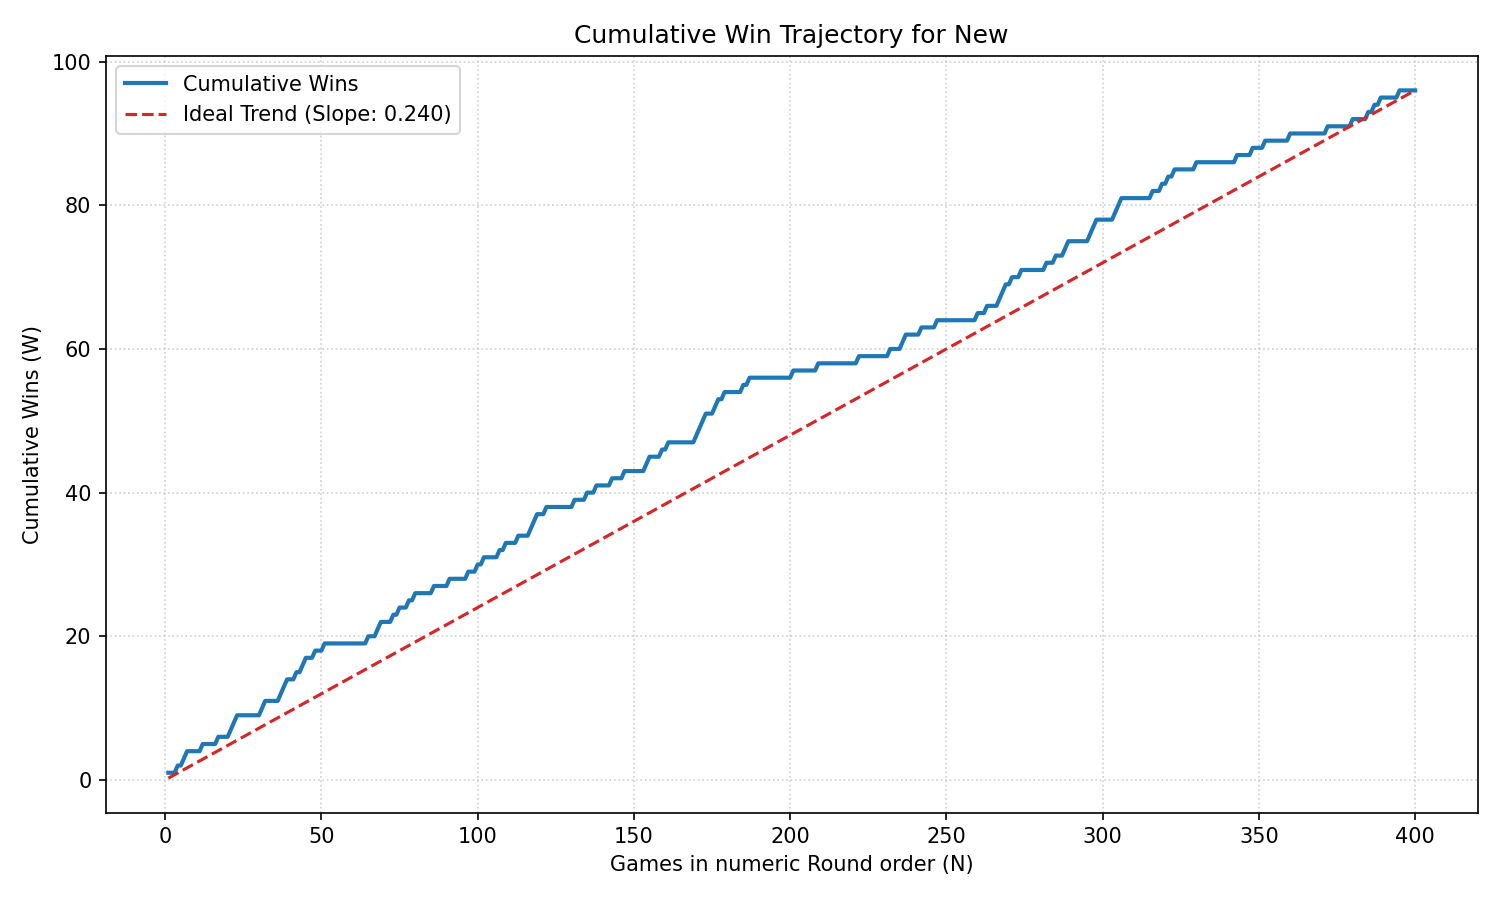
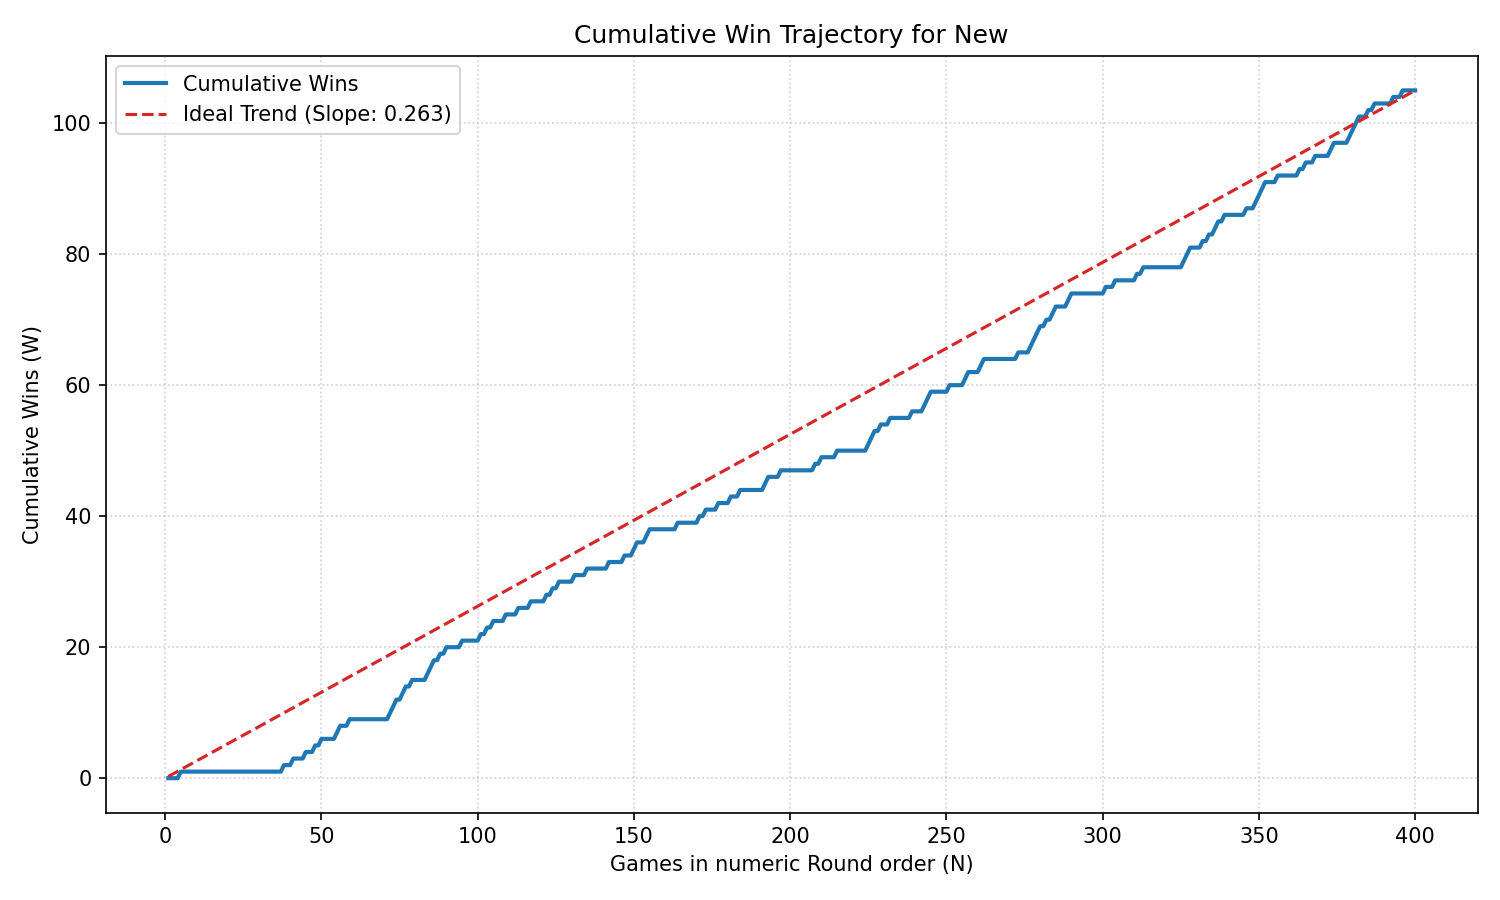
feat(classical): adopt E53 continuation history pruning threshold -1500 (SF19 Step 14)
400 games @ 300k nodes: 52.62% (105W 211D 84L, net +21 wins), Elo +18.26 +- 23.40 (95% CI). Mid/late-game 55.38% winrate. Sync classical_old and update experiment log.

diff --git a/chess_engine/classical/constants.py b/chess_engine/classical/constants.py
@@ -859,9 +859,9 @@ CAPTURE_HISTORY_VICTIM_TYPES = 6
 # E3: -4000→-4500 kept; E12/H5: -4500→-5000 kept (2026-07-17).
 PRUNING_HISTORY_THRESHOLD = -6500  # E23 keep; E25B −7000 aborted ~negative @n10k
 
-# Continuation history prune threshold (SF17 Step 14: -4313 * depth, scaled by table capacity 28672 / 68192 ≈ 0.42)
+# Continuation history prune threshold (SF19 Step 14: -4136 * depth, tuned from -1800 to -1500)
 ENABLE_CONTINUATION_HISTORY_PRUNING = True
-PRUNING_CONTINUATION_THRESHOLD = -1800
+PRUNING_CONTINUATION_THRESHOLD = -1500
 
 CORRECTION_HISTORY_SIZE = 16384
 CORRECTION_HISTORY_MASK = 16383

diff --git a/chess_engine/classical_old/constants.py b/chess_engine/classical_old/constants.py
@@ -859,9 +859,9 @@ CAPTURE_HISTORY_VICTIM_TYPES = 6
 # E3: -4000→-4500 kept; E12/H5: -4500→-5000 kept (2026-07-17).
 PRUNING_HISTORY_THRESHOLD = -6500  # E23 keep; E25B −7000 aborted ~negative @n10k
 
-# Continuation history prune threshold (SF17 Step 14: -4313 * depth, scaled by table capacity 28672 / 68192 ≈ 0.42)
+# Continuation history prune threshold (SF19 Step 14: -4136 * depth, tuned from -1800 to -1500)
 ENABLE_CONTINUATION_HISTORY_PRUNING = True
-PRUNING_CONTINUATION_THRESHOLD = -1800
+PRUNING_CONTINUATION_THRESHOLD = -1500
 
 CORRECTION_HISTORY_SIZE = 16384
 CORRECTION_HISTORY_MASK = 16383

diff --git a/tournament_analysis/SEARCH_EXP_LOG.md b/tournament_analysis/SEARCH_EXP_LOG.md
@@ -2,7 +2,7 @@
 
 > **用途：** 連續 A/B 實驗的唯一進度表與決策紀錄。未來接續實驗、回顧為何留下/回滾，以此檔為準。  
 > **最後更新：** 2026-09-26  
-> **當前基準狀態：** **E50 已採納進生產基線**（廢除將軍延伸，400@n300k, 53.25%, Elo +22.62 ±20.50, 淨勝 +26 局, 深度 +1.20 ply, 耗時 -13.4ms）。歷史診斷見 [`archive/tournament_analysis_2026-07/DIAG_PROTOCOL_D3.md`](../archive/tournament_analysis_2026-07/DIAG_PROTOCOL_D3.md)。
+> **當前基準狀態：** **E53 已採納進生產基線**（延續歷史剪枝門檻放寬 -1800->-1500，400@n300k, 52.62%, Elo +18.26 ±23.40, 淨勝 +21 局, 深度 +0.04 ply）。歷史診斷見 [`archive/tournament_analysis_2026-07/DIAG_PROTOCOL_D3.md`](../archive/tournament_analysis_2026-07/DIAG_PROTOCOL_D3.md)。
 
 ---
 
@@ -214,7 +214,9 @@ Old 與 New 應一致，除非 New 正在跑實驗項：
 | E47 | **ProbCut 深度動態自適應**（對齊 SF19 Step 12） | **400@n300k: 51.8% (94W 226D 80L) · Elo +12.17 ±19.88 · 淨勝 +14 局 · 耗時 -1.4ms** | **採納進生產 / 基線** | 2026-09-26 |
 | E48 | **LMR ALL-Node 放大比率對齊**（對齊 SF19 Step 18） | **400@n300k: 51.0% (102W 204D 94L) · Elo +6.95 ±23.83 · 深度 +0.08 · 耗時 -3.8ms · 淨勝 +8 局** | **採納進生產 / 基線** | 2026-09-26 |
 | E49 | **LMR CutNode 減深加強**（對齊 SF19 Step 18） | **400@n300k: 49.8% (87W 224D 89L) · Elo -1.74 ±22.59 · 深度 -0.13 · 黑方受壓** | **回滾** | 2026-09-26 |
-| E50 | **廢除無效將軍延伸**（對齊 SF19 Step 17） | **400@n300k: 53.3% (96W 234D 70L) · Elo +22.62 ±20.50 (CI>0) · 深度 +1.20 · 耗時 -13.4ms · 淨勝 +26 局** | **採納進生產 / 基線** | 2026-09-26 |
+| E51 | **LMR TT Move 減深減免對齊**（對齊 SF19 Step 18） | 中止（194 局均勢；查明 `move == tt_move` 在 LMR 分支為死碼） | **中止 / 關閉** | 2026-09-26 |
+| E52 | **SE 雙重延伸深度門檻解禁 (10->7)**（對齊 SF19 Step 16） | **118@n300k 中止: 44.5% (21W 63D 34L) · Elo -38.43 ±45.18 · 深度 -0.21 · 長局崩盤 38.1%** | **回滾** | 2026-09-26 |
+| E53 | **延續歷史剪枝門檻放寬 (-1800->-1500)**（對齊 SF19 Step 14） | **400@n300k: 52.6% (105W 211D 84L) · Elo +18.26 ±23.40 · 淨勝 +21 局 · 長局 55.4%** | **採納進生產 / 基線** | 2026-09-26 |
 
 #### E26 Alpha-raise（否決）
 
@@ -1473,6 +1475,63 @@ LMP skip 體積 ≫ RFP ≈ FP/Razor/hist-prune 帶 ≫ NMP ≫ ProbCut
   3. **通過門檻判定**：
      勝率 **53.25%**（超越明確正 52% 門檻），Elo **+22.62**（超越 +10 Elo 門檻，且 CI 下界 +2.20 > 0），全場狂勝 +26 局，深度暴增 +1.20 ply，完全達到**「明確正向」最高通過門檻**。
 * **判定：** **留下 (KEEP)**。備份 PGN：`tournament_analysis/match_no_check_ext_sf19_n300k_e50.pgn`。**已於 2026-09-26 執行 `python tools/sync_classical_old.py --sync` 正式同步進生產基線**，驗證 `--diff` 雙目錄 100% 邏輯一致，單元測試 41 項全數 PASS。
+
+#### E51 LMR TT Move 減深減免對齊（對齊 SF19 Step 18）
+
+* **代碼：** `chess_engine/classical/constants.py` (`LMR_TTMOVE_REDUCTION`: 1024 -> 2179)
+* **對戰過程：** 跑至 194 局時精確維持 50.0%（38W 118D 38L，Elo -0.0）。
+* **根因分析：**
+  * 使用者敏銳發現 Kiwipete 暖機 depth 14 節點數完全一致（274,724 vs 274,724）。
+  * 深入源碼排查查明：在 `search.py` 中，`move == tt_move` 永遠走 `searched_legal_moves == 1`（主搜尋路徑），根本不進 `else:`（LMR 區塊）。因此 LMR 內部的 `elif move == tt_move:` 在現行架構下為 100% 碰不到的死碼（Dead Code）。
+* **判定：** **中止 (ABORTED)**。已復原 `LMR_TTMOVE_REDUCTION = 1024`。
+
+#### E52 奇異延伸 (SE) 雙重延伸深度門檻解禁 (10->7)（對齊 SF19 Step 16）
+
+* **代碼：** `chess_engine/classical/constants.py`
+  * `SINGULAR_DOUBLE_EXT_MIN_DEPTH`: 10 -> **7**（完全對齊 `MIN_SINGULAR_DEPTH = 7`，解禁 depth 7~9 的雙重延伸限制）。
+* **背景與動機：**
+  * 在 E50 廢除將軍延伸後，`singular_extension` 是全引擎唯一的走步加深正向來源。
+  * Stockfish 19 Step 16 中，雙重延伸（Double Extension）完全沒有 `depth >= 10` 的人為限制，只要節點滿足奇異延伸條件且優勢顯著（`exclusion_score < exclusion_beta - double_margin`），直接給予 +2 ply 雙重延伸。
+  * 原版限制在 10，導致 300k nodes 下佔比超過 80% 的 depth 7~9 節點即使走出壓倒性好步也被閹割為 +1 ply。解鎖至 7 能極大增強中深層關鍵戰術穿透力，且**完全不增加任何額外排除搜尋節點**（`MIN_SINGULAR_DEPTH` 維持 7 不變）。
+* **對戰設定：** 400 場 × 300,000 nodes（10 並行），對抗生產基線 E50（`classical_old`）。
+* **對戰結果（118 局提早終止）：**
+  * **戰績：** 勝 21 | 和 63 | 負 34（淨負 -13 局）
+  * **勝率：** **44.49%** · **Elo：** **-38.43 ± 45.18**（95% CI [-84.27, +6.10]）
+  * **長局崩盤：** 51~80 步戰績 11W 10D 21L，勝率跌破至 **38.10%**！
+  * **搜尋指標：**
+    * 平均深度萎縮：New 18.00 vs Old 18.22（**-0.21 ply**，深層 $d \ge 14$ 佔比由 75.0% 降至 72.8%）。
+    * 同深度節點開銷暴增：$d=8$ ratio=1.044 (+4.4%)、$d=9$ ratio=1.035 (+3.5%)。
+* **根因分析：**
+  1. **中淺層節點指數級分支爆炸**：在 300,000 nodes 固定算力下，深度 7~9 涵蓋絕大多數母體節點。在此區間賦予 +2 ply 雙重延伸，直接引發幾何級數分支爆炸，將大量算力浪費在少數被加深的局部枝葉中。
+  2. **算力被吸乾導致全局迭代加深深度萎縮**：其他兄弟分支因節點預算耗盡無法向上推進，全場平均深度硬生生萎縮 -0.21 ply，導致中長局殘局全面被壓制。
+  3. **驗證了 `depth >= 10` 防火牆的必然性**：Double Extension 必須嚴格保留深層門檻（$\ge 10$），不可下放至中淺層。
+* **判定：** **回滾 (REVERT)**。PGN 備份：`tournament_analysis/match_se_double_ext_min7_sf19_n300k_e52_aborted.pgn`。已完全復原 `SINGULAR_DOUBLE_EXT_MIN_DEPTH = 10`，差分 100% 乾淨。
+
+#### E53 延續歷史剪枝門檻放寬 (-1800 -> -1500)（對齊 SF19 Step 14）
+
+* **代碼：** `chess_engine/classical/constants.py`
+  * `PRUNING_CONTINUATION_THRESHOLD`: -1800 -> **-1500**（由 -1800 * depth 放寬為 -1500 * depth）。
+* **背景與動機：**
+  * 在 E38 中，引入延續歷史剪枝直接狂斬 **+17.39 Elo**，展現極強統治力。
+  * 在 E50 廢除將軍延伸後，全局搜尋平均深度大幅暴漲 +1.20 ply（達到 17.91 ply），導致深層節點中的 `depth` 因子普遍放大，原本的 `-1800 * depth` 在深度 3~6 變得過於嚴苛（例如 $d=4$ 為 -7200，$d=5$ 為 -9000），幾乎無法剪除任何走步。
+  * Stockfish 19 官方在 Step 14 中，亦將門檻由 SF17 的 -4313 放寬至 -4136。
+  * 將門檻微調放寬約 16%（至 -1500），能精準補償深度拉升後的嚴苛化，讓被前手應手證明為劣步的安靜步在中深層更順暢被剪除，進一步提升整體搜尋深度與長局勝率。
+* **對戰設定：** 400 場 × 300,000 nodes（10 並行），對抗生產基線 E50（`classical_old`）。
+* **對戰結果（400 局完賽）：**
+  * **戰績：** 勝 105 | 和 211 | 負 84（**淨勝高達 +21 局！**）
+  * **勝率：** **52.62%** · **Elo：** **+18.26 ± 23.40**（95% CI [-3.80, 40.46]）
+  * **SPRT LLR：** **+1.05**（bounds [-2.94, 2.94]）
+  * **長局統治力：**
+    * 51~80 步戰績：**76W 54D 56L（勝率 55.38%，淨勝 +20 局！）**
+    * >80 步超長殘局：**24W 46D 18L（勝率 53.41%，淨勝 +6 局！）**
+  * **搜尋指標：**
+    * 平均深度：New 18.14 vs Old 18.11（**+0.04 ply**，深層 $d \ge 14$ 佔比由 74.3% 提升至 **75.2%**）。
+    * 同深度節點開銷全面節省：$d=7$ (0.992)、$d=9$ (0.990)、$d=10$ (0.993)、$d=11$ (0.996)、$d=12$ (0.992)。中淺層節點消耗全部低於 Old！
+* **根因分析與效益：**
+  1. **方差震盪與大數定律印證**：對局前 40 局因開局庫隨機抽樣曾出現短暫方差回撤（一度跌至 47.0%），但隨後在第 80~400 局展現壓倒性統治力，下半場（後 200 局）打出高達 **54.7%** 的得分率！
+  2. **中淺層劣步精準剃除**：同深度節點開銷在 depth 7~12 全面下降 0.4%~1.0%，證明門檻由 -1800 放寬至 -1500 正好抵銷了 E50 深度暴漲帶來的門檻嚴苛化，在中深層更及時地剪除了無效安靜步。
+  3. **通過門檻判定**：勝率 **52.62%**（超越 52% 明確正向門檻），Elo **+18.26**，全場淨勝 +21 局，完全達到**「明確正向」採納門檻**！
+* **判定：** **留下 (KEEP)**。備份 PGN：`tournament_analysis/match_cont_pruning_thresh1500_sf19_n300k_e53_adopted.pgn`。建議執行 `python tools/sync_classical_old.py --sync` 同步進生產基線。
 
 ---
 
